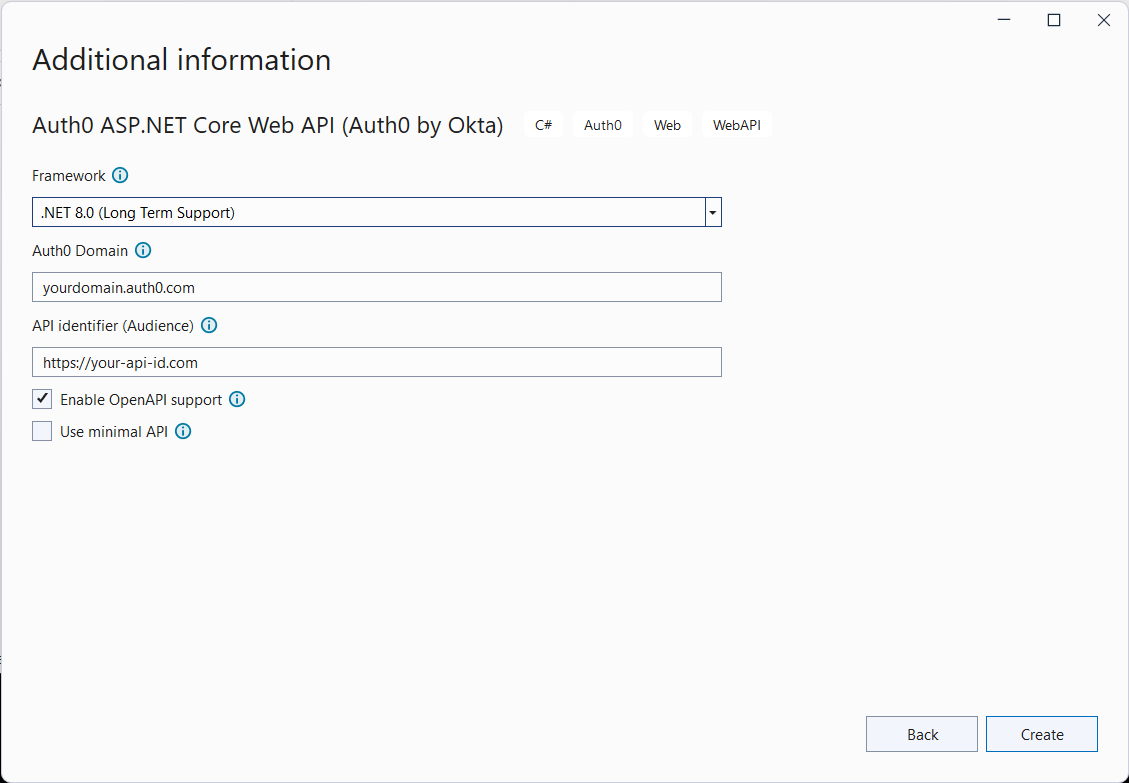
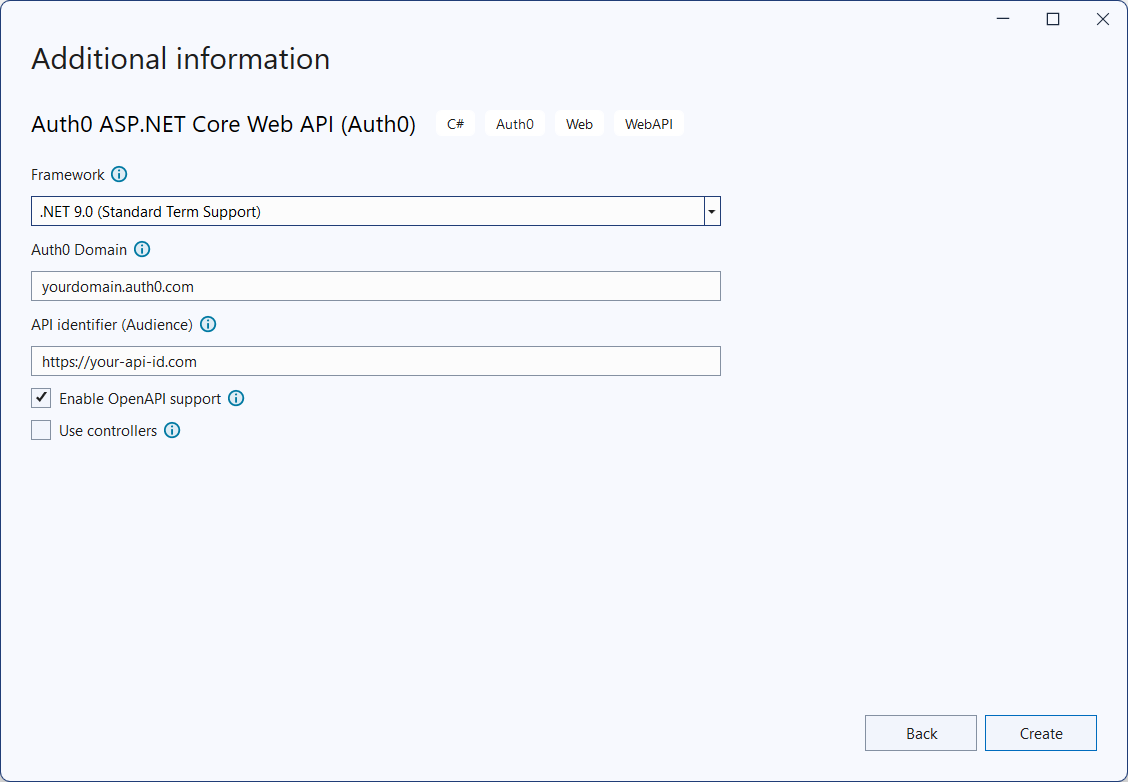
Merge pull request #47 from auth0/webapi-parameters
Web API parameters

Pull request: Web API parameters
### Description

This PR adds the `--controllers` option for the Web API template and aligns the template generation behavior between minimal and controller-based APIs with the standard .NET template package.
 
### References

Closes #46

diff --git a/docs/auth0webapi.md b/docs/auth0webapi.md
@@ -49,7 +49,9 @@ In addition to the usual options for the `dotnet new` command, the following tem
 - `--no-openapi`<br>
   It prevents OpenAPI documentation generation (`true`). The default value is `false`.
 - `--minimal`
-  It creates a project that uses the [ASP.NET Core minimal API](https://learn.microsoft.com/en-us/aspnet/core/fundamentals/minimal-apis). Default is `false`.
+  It creates a project that uses the [ASP.NET Core minimal API](https://learn.microsoft.com/en-us/aspnet/core/fundamentals/minimal-apis). Default is `false`. This option is overriden by `--controllers`.
+- `--controllers`
+  It creates a project that uses the [ASP.NET Core controller-based API](https://learn.microsoft.com/en-us/aspnet/core/web-api). Default is `false`. The `--controllers` option takes precedence over the `--minimal` option.
 
 Example:
 